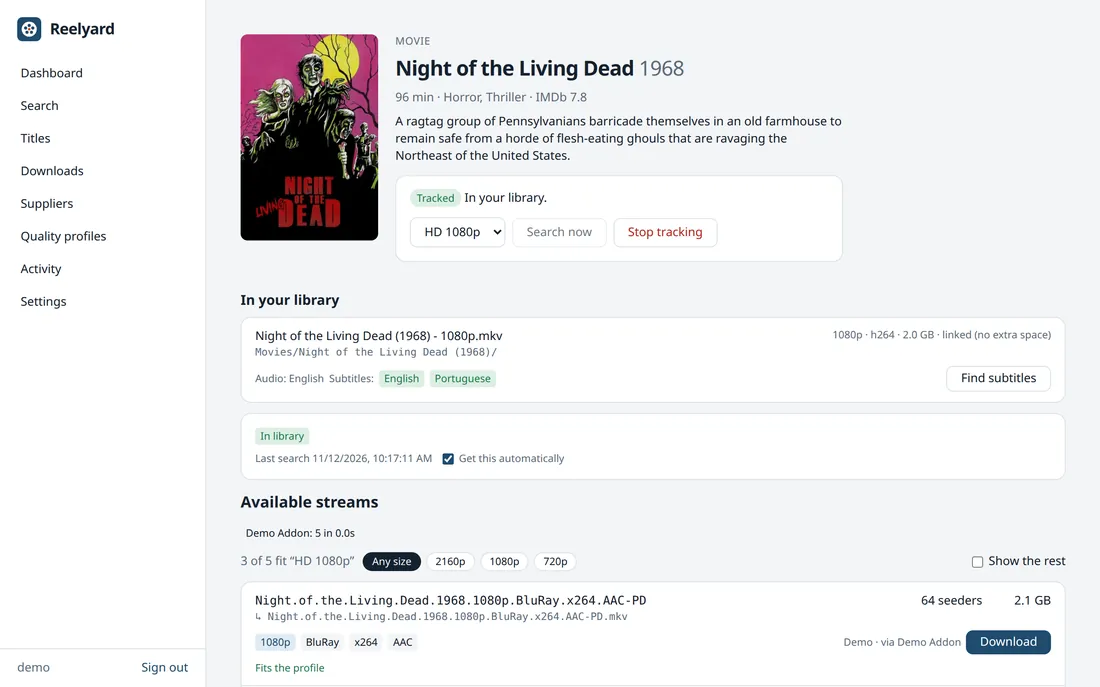
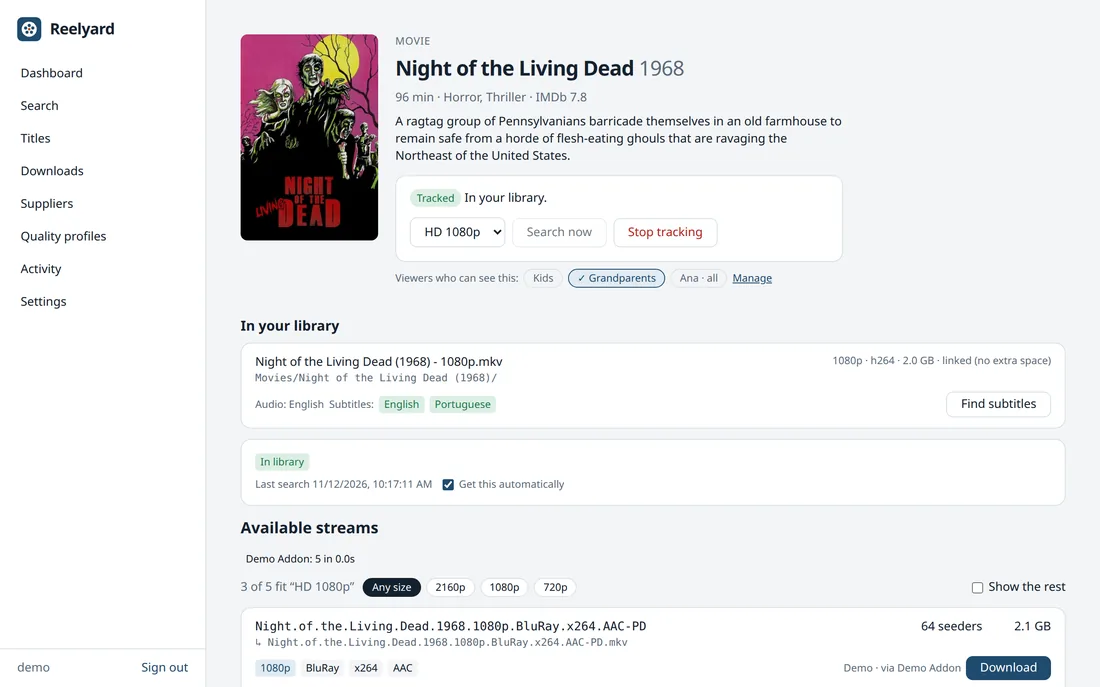
deploy: 12b49de88c41b47a59d72a4769d6e8bd746215b5

diff --git a/docs.html b/docs.html
@@ -247,8 +247,15 @@ docker compose up -d</code></pre>
 
     <!-- ============================================================ -->
     <h2 id="tracking">Tracking &amp; quality profiles</h2>
-    <p>Open a movie or series and press <strong>Track</strong>. Reelyard then looks for it by itself (every minute for new work, backing off from 15 minutes to a day when nothing fits), picks the best release for the title's <strong>quality profile</strong>, downloads it, and imports it. Series follow new episodes as they air; choose <em>all episodes</em>, <em>only new ones</em>, or <em>none</em>.</p>
-    <figure class="frame"><a href="img/series-main-light-1600.webp" class="shot-link"><img class="shot shot-light" src="img/series-main-light-800.webp" srcset="img/series-main-light-800.webp 800w, img/series-main-light-1600.webp 1600w" sizes="(max-width: 880px) calc(100vw - 34px), 760px" width="800" height="615" alt="A tracked series with each episode's state" loading="lazy" decoding="async"><img class="shot shot-dark" src="img/series-main-dark-800.webp" srcset="img/series-main-dark-800.webp 800w, img/series-main-dark-1600.webp 1600w" sizes="(max-width: 880px) calc(100vw - 34px), 760px" width="800" height="615" alt="A tracked series with each episode's state" loading="lazy" decoding="async"></a><figcaption>A tracked series: three episodes in the library, the rest on their way.</figcaption></figure>
+    <p>Open a movie or series and press <strong>Track</strong>. Reelyard then looks for it by itself (every minute for new work, backing off from 15 minutes to a day when nothing fits), picks the best release for the title's <strong>quality profile</strong>, downloads it, and imports it. Series follow new episodes as they air.</p>
+    <h3 id="episodes">Choosing seasons and episodes</h3>
+    <p>For a series, the Track panel asks what to get:</p>
+    <ul>
+      <li><strong>All episodes</strong>, <strong>only new ones</strong>, or <strong>None, I'll pick episodes</strong>;</li>
+      <li>which seasons, as chips (regular seasons on and specials off at first). You can change them after tracking too.</li>
+    </ul>
+    <p>In the episode list, tick <strong>get</strong> on any episode not in your library yet, or use <strong>Get whole season</strong> and <strong>Skip season</strong>. Saving a new mode or season choice applies it again to every episode; changing only the profile keeps your picks. Unticking an episode that's already downloading doesn't stop that download, only new searches.</p>
+    <figure class="frame"><a href="img/series-main-light-1600.webp" class="shot-link"><img class="shot shot-light" src="img/series-main-light-800.webp" srcset="img/series-main-light-800.webp 800w, img/series-main-light-1600.webp 1600w" sizes="(max-width: 880px) calc(100vw - 34px), 760px" width="800" height="615" alt="A tracked series with each episode's state" loading="lazy" decoding="async"><img class="shot shot-dark" src="img/series-main-dark-800.webp" srcset="img/series-main-dark-800.webp 800w, img/series-main-dark-1600.webp 1600w" sizes="(max-width: 880px) calc(100vw - 34px), 760px" width="800" height="615" alt="A tracked series with each episode's state" loading="lazy" decoding="async"></a><figcaption>A tracked series: three episodes in the library, the rest ticked to get and on their way. Under the Track panel, the viewers who can see it.</figcaption></figure>
     <h3 id="profiles">Quality profiles</h3>
     <p>A profile sets:</p>
     <ul>
@@ -265,12 +272,16 @@ docker compose up -d</code></pre>
 
     <!-- ============================================================ -->
     <h2 id="downloads">Downloads</h2>
-    <figure class="frame"><a href="img/downloads-main-light-1600.webp" class="shot-link"><img class="shot shot-light" src="img/downloads-main-light-800.webp" srcset="img/downloads-main-light-800.webp 800w, img/downloads-main-light-1600.webp 1600w" sizes="(max-width: 880px) calc(100vw - 34px), 760px" width="800" height="615" alt="The Downloads page with live progress" loading="lazy" decoding="async"><img class="shot shot-dark" src="img/downloads-main-dark-800.webp" srcset="img/downloads-main-dark-800.webp 800w, img/downloads-main-dark-1600.webp 1600w" sizes="(max-width: 880px) calc(100vw - 34px), 760px" width="800" height="615" alt="The Downloads page with live progress" loading="lazy" decoding="async"></a><figcaption>Downloads in progress, queued and sharing.</figcaption></figure>
+    <figure class="frame"><a href="img/downloads-main-light-1600.webp" class="shot-link"><img class="shot shot-light" src="img/downloads-main-light-800.webp" srcset="img/downloads-main-light-800.webp 800w, img/downloads-main-light-1600.webp 1600w" sizes="(max-width: 880px) calc(100vw - 34px), 760px" width="800" height="615" alt="The Downloads page with tabs and live progress" loading="lazy" decoding="async"><img class="shot shot-dark" src="img/downloads-main-dark-800.webp" srcset="img/downloads-main-dark-800.webp 800w, img/downloads-main-dark-1600.webp 1600w" sizes="(max-width: 880px) calc(100vw - 34px), 760px" width="800" height="615" alt="The Downloads page with tabs and live progress" loading="lazy" decoding="async"></a><figcaption>The Downloads page: what's running now, with the queue, paused, seeding and finished downloads in their own tabs.</figcaption></figure>
+    <p>The page has tabs: <strong>Downloading</strong>, <strong>Queue</strong>, <strong>Paused</strong> (paused and failed), <strong>Seeding</strong> and <strong>Finished</strong>.</p>
+    <h3 id="queue">Queue</h3>
+    <p>When all download slots are busy, the rest wait in the queue. Those with the most seeders start first, then those whose count isn't known yet, then those with none; among equals, the oldest first. The Queue tab lists them in that order with their seeder count. Counts come from the release when it's picked, and Reelyard asks your suppliers again for queued downloads that don't have one.</p>
+    <p>While others are waiting, a download that has had no peers and no data for 10 minutes is paused (shown as a grey "no peers" note) to free its slot. For a tracked title, that release is blocked and Reelyard looks for another. Downloads you pause yourself are left alone.</p>
     <h3 id="sharing">Sharing</h3>
     <p>Finished downloads keep sharing until the title's profile ratio or time limit (for downloads you started by hand: <strong>Settings → Downloads</strong>), whichever comes first. Then sharing stops, and if the file is in your library its download copy is deleted. The library file stays: it's a hardlink or a copy.</p>
     <h3 id="stalls">Stalls and disk space</h3>
     <ul>
-      <li>Downloads that make no progress for 30 minutes (adjustable) fail; tracked titles then try another release.</li>
+      <li>Downloads that make no progress for 30 minutes (adjustable) fail; tracked titles then try another release. When others are waiting in the queue, a download with no peers is paused after 10 minutes instead (see <a href="#queue">Queue</a>).</li>
       <li>Downloads that wouldn't fit on disk, keeping 2 GB free (adjustable), are refused.</li>
       <li>Speed limits and how many downloads run at once are set in <strong>Settings → Downloads</strong>.</li>
     </ul>
@@ -287,16 +298,27 @@ TV/Breaking Bad (2008)/Season 01/Breaking Bad (2008) - S01E02 - Cat's in the Bag
 
     <!-- ============================================================ -->
     <h2 id="dlna">Watching on a TV (DLNA)</h2>
-    <p>Reelyard has its own DLNA server, on by default. TVs, game consoles and players like VLC on your network list it as <strong>Reelyard</strong> (rename it in <strong>Settings → DLNA server</strong>) and play straight from the library, with seeking.</p>
+    <p>Reelyard has its own DLNA server, on by default. TVs, game consoles and players like VLC on your network list it as <strong>Reelyard</strong> (rename it in <strong>Settings → TVs (DLNA)</strong>) and play straight from the library, with seeking.</p>
     <ul>
       <li>Subtitles saved next to a video are offered with it, in your subtitle-language order (Samsung TVs get them too).</li>
       <li>Thumbnails need <code>ffmpeg</code>; durations need <code>ffprobe</code>.</li>
       <li>Turn on converted versions in the DLNA settings for TVs that can't play a file (needs <code>ffmpeg</code>).</li>
       <li>Where you stopped and what you've watched are shared with TVs that support it.</li>
     </ul>
+    <h3 id="dlna-name">One name per server</h3>
+    <p>TVs tell DLNA servers apart by a device ID made from the server's name, so two Reelyards on the same network both called "Reelyard" get mixed up: the TV acts as if the server keeps restarting. Give each its own name (for example "Reelyard NAS" and "Reelyard PC"). Reelyard looks for a twin when it starts and every 10 minutes, and warns in <strong>Settings → TVs (DLNA)</strong> when it finds one.</p>
+    <h3 id="viewers">Viewers: a server per family member</h3>
+    <p>TVs don't sign in, so each person who watches gets their own server in the TV's sources: <strong>Settings → Viewers → Add viewer</strong> creates, say, "Reelyard · Kids" next to the main "Reelyard". On a viewer's server:</p>
+    <ul>
+      <li>watched marks and resume points are theirs, and a <strong>Continue watching</strong> folder at the top lists what they're halfway through (the main server has one for your account too);</li>
+      <li><strong>Only titles I choose</strong> limits it to the films and series you pick; other titles don't appear and their files can't be opened from that server;</li>
+      <li><strong>Show on these TVs</strong> shows it only on the TVs you tick (the main server has the same option). TVs are listed once they've opened any Reelyard server and are told apart by address, so give each a fixed IP in your router.</li>
+    </ul>
+    <p>You can also choose from a title's own page: under the Track panel, <strong>Viewers who can see this</strong> has a chip per viewer. Click a limited viewer to give or take away that title (for a series, all its episodes, including future ones). Viewers who see the whole library show as "Name · all".</p>
+    <p>Each viewer's server uses the next port after the main one (8201, 8202, …); allow those in your firewall too. Anyone using a TV that shows a server can open it: hide the main server from a child's TV, and don't rely on this to keep a determined person out.</p>
     <h3 id="dlna-network">Network</h3>
     <ul>
-      <li>It uses TCP port <strong>8200</strong> and SSDP (UDP 1900, multicast); allow both in your firewall.</li>
+      <li>It uses TCP port <strong>8200</strong> (and 8201, 8202, … for <a href="#viewers">viewers</a>) and SSDP (UDP 1900, multicast); allow both in your firewall.</li>
       <li>Only devices on private networks (192.168.x, 10.x, 172.16–31.x, link-local) can connect.</li>
       <li>It isn't announced on your VPN interface or, unless you choose them, on Docker/VM bridges.</li>
       <li>In Docker, use host networking; multicast doesn't cross Docker's bridge network.</li>
@@ -305,7 +327,7 @@ TV/Breaking Bad (2008)/Season 01/Breaking Bad (2008) - S01E02 - Cat's in the Bag
     <!-- ============================================================ -->
     <h2 id="media-servers">Jellyfin, Emby and Plex</h2>
     <p>Point your media server's Movies and Shows libraries at <code>library/Movies</code> and <code>library/TV</code>.</p>
-    <p>In <strong>Settings → Jellyfin, Emby and Plex</strong>, add the server's address and an API key (Jellyfin, Emby) or <code>X-Plex-Token</code> (Plex); <strong>Test connection</strong> checks both. Reelyard then asks it to rescan about 30 seconds after new files arrive (several imports close together share one rescan). Keys are stored in Reelyard's database and never sent back to the browser.</p>
+    <p>In <strong>Settings → Library → Jellyfin, Emby and Plex</strong>, add the server's address and an API key (Jellyfin, Emby) or <code>X-Plex-Token</code> (Plex); <strong>Test connection</strong> checks both. Reelyard then asks it to rescan about 30 seconds after new files arrive (several imports close together share one rescan). Keys are stored in Reelyard's database and never sent back to the browser.</p>
 
     <!-- ============================================================ -->
     <h2 id="vpn">Using a VPN</h2>
@@ -408,7 +430,7 @@ echo 'new password' | reelyard reset-password --password-stdin</code></pre>
 
     <!-- ============================================================ -->
     <h2 id="api">API</h2>
-    <p>Everything the UI does goes through <code>/api/v1</code>. Scripts can use an API key from <strong>Settings → API keys</strong>, sent as the <code>X-Api-Key</code> header (<code>Authorization: Bearer hbr_...</code> works too):</p>
+    <p>Everything the UI does goes through <code>/api/v1</code>. Scripts can use an API key from <strong>Settings → Apps and API</strong>, sent as the <code>X-Api-Key</code> header (<code>Authorization: Bearer hbr_...</code> works too):</p>
 <pre><code>curl -H "X-Api-Key: hbr_..." http://localhost:8787/api/v1/system</code></pre>
     <p>The app API is described in OpenAPI at <code>/api/v1/openapi.yaml</code> on your own server. <code>/api/v1/health</code> reports the running version.</p>
 
@@ -417,10 +439,10 @@ echo 'new password' | reelyard reset-password --password-stdin</code></pre>
     <p>Reelyard's apps for TVs, phones and computers (<a href="https://github.com/Reelyard/clients">Reelyard/clients</a>) sign in with a pairing code instead of a password:</p>
     <ol>
       <li>The app calls <code>POST /api/v1/devices/pair</code> with <code>{"name": "Living room TV", "platform": "tizen"}</code> and shows the <code>code</code> it gets back (for example <code>K7Q-4MD</code>).</li>
-      <li>You enter that code under <strong>Settings → Devices</strong>.</li>
+      <li>You enter that code under <strong>Settings → Apps and API</strong>.</li>
       <li>The app, polling <code>POST /api/v1/devices/pair/token</code> with its <code>pollSecret</code>, gets its own token (<code>hbd_...</code>) and sends it as <code>Authorization: Bearer hbd_...</code>.</li>
     </ol>
-    <p>Codes work for 10 minutes. <strong>Settings → Devices</strong> lists every device and signs any of them out.</p>
+    <p>Codes work for 10 minutes. <strong>Settings → Apps and API</strong> lists every device and signs any of them out.</p>
     <h3 id="playback-api">Playback endpoints</h3>
     <div class="table-scroll">
     <table>

diff --git a/index.html b/index.html
@@ -72,9 +72,9 @@
       <p>The web UI runs on your own machine, at port 8787, and you open it in any browser.</p>
     </div>
     <div class="gallery">
-      <figure class="frame"><a href="img/downloads-light-2200.webp" class="shot-link"><img class="shot shot-light" src="img/downloads-light-1100.webp" srcset="img/downloads-light-1100.webp 1100w, img/downloads-light-2200.webp 2200w" sizes="(max-width: 1120px) calc(100vw - 34px), 1088px" width="1100" height="688" alt="Downloads page with live speeds, peers and progress for each torrent" loading="lazy" decoding="async"><img class="shot shot-dark" src="img/downloads-dark-1100.webp" srcset="img/downloads-dark-1100.webp 1100w, img/downloads-dark-2200.webp 2200w" sizes="(max-width: 1120px) calc(100vw - 34px), 1088px" width="1100" height="688" alt="Downloads page with live speeds, peers and progress for each torrent" loading="lazy" decoding="async"></a><figcaption><strong>Downloads.</strong> Live speed, peers and time left, plus what's still being shared after it finishes.</figcaption></figure>
-      <figure class="frame"><a href="img/series-light-2200.webp" class="shot-link"><img class="shot shot-light" src="img/series-light-1100.webp" srcset="img/series-light-1100.webp 1100w, img/series-light-2200.webp 2200w" sizes="(max-width: 1120px) calc(100vw - 34px), 1088px" width="1100" height="688" alt="A tracked series showing which episodes are in the library and which are downloading" loading="lazy" decoding="async"><img class="shot shot-dark" src="img/series-dark-1100.webp" srcset="img/series-dark-1100.webp 1100w, img/series-dark-2200.webp 2200w" sizes="(max-width: 1120px) calc(100vw - 34px), 1088px" width="1100" height="688" alt="A tracked series showing which episodes are in the library and which are downloading" loading="lazy" decoding="async"></a><figcaption><strong>Series follow themselves.</strong> Each episode shows whether it's in your library, downloading, or not out yet.</figcaption></figure>
-      <figure class="frame"><a href="img/movie-light-2200.webp" class="shot-link"><img class="shot shot-light" src="img/movie-light-1100.webp" srcset="img/movie-light-1100.webp 1100w, img/movie-light-2200.webp 2200w" sizes="(max-width: 1120px) calc(100vw - 34px), 1088px" width="1100" height="688" alt="A movie's page: the library file with its subtitles, and the available releases checked against the quality profile" loading="lazy" decoding="async"><img class="shot shot-dark" src="img/movie-dark-1100.webp" srcset="img/movie-dark-1100.webp 1100w, img/movie-dark-2200.webp 2200w" sizes="(max-width: 1120px) calc(100vw - 34px), 1088px" width="1100" height="688" alt="A movie's page: the library file with its subtitles, and the available releases checked against the quality profile" loading="lazy" decoding="async"></a><figcaption><strong>Every release, explained.</strong> See which releases fit the profile and why, and the subtitles saved next to your file.</figcaption></figure>
+      <figure class="frame"><a href="img/downloads-light-2200.webp" class="shot-link"><img class="shot shot-light" src="img/downloads-light-1100.webp" srcset="img/downloads-light-1100.webp 1100w, img/downloads-light-2200.webp 2200w" sizes="(max-width: 1120px) calc(100vw - 34px), 1088px" width="1100" height="688" alt="Downloads page with tabs for downloading, queue, paused, seeding and finished, and live speeds, peers and progress" loading="lazy" decoding="async"><img class="shot shot-dark" src="img/downloads-dark-1100.webp" srcset="img/downloads-dark-1100.webp 1100w, img/downloads-dark-2200.webp 2200w" sizes="(max-width: 1120px) calc(100vw - 34px), 1088px" width="1100" height="688" alt="Downloads page with tabs for downloading, queue, paused, seeding and finished, and live speeds, peers and progress" loading="lazy" decoding="async"></a><figcaption><strong>Downloads.</strong> Live speed, peers and time left. Tabs split what's running, the queue (best-seeded first), paused, sharing and finished.</figcaption></figure>
+      <figure class="frame"><a href="img/series-light-2200.webp" class="shot-link"><img class="shot shot-light" src="img/series-light-1100.webp" srcset="img/series-light-1100.webp 1100w, img/series-light-2200.webp 2200w" sizes="(max-width: 1120px) calc(100vw - 34px), 1088px" width="1100" height="688" alt="A tracked series showing which episodes are in the library and which are downloading" loading="lazy" decoding="async"><img class="shot shot-dark" src="img/series-dark-1100.webp" srcset="img/series-dark-1100.webp 1100w, img/series-dark-2200.webp 2200w" sizes="(max-width: 1120px) calc(100vw - 34px), 1088px" width="1100" height="688" alt="A tracked series showing which episodes are in the library and which are downloading" loading="lazy" decoding="async"></a><figcaption><strong>Series follow themselves.</strong> Get every episode, only new ones, or just the seasons and episodes you tick. Each shows whether it's in your library, downloading, or not out yet.</figcaption></figure>
+      <figure class="frame"><a href="img/movie-light-2200.webp" class="shot-link"><img class="shot shot-light" src="img/movie-light-1100.webp" srcset="img/movie-light-1100.webp 1100w, img/movie-light-2200.webp 2200w" sizes="(max-width: 1120px) calc(100vw - 34px), 1088px" width="1100" height="688" alt="A movie's page: the library file with its subtitles, and the available releases checked against the quality profile" loading="lazy" decoding="async"><img class="shot shot-dark" src="img/movie-dark-1100.webp" srcset="img/movie-dark-1100.webp 1100w, img/movie-dark-2200.webp 2200w" sizes="(max-width: 1120px) calc(100vw - 34px), 1088px" width="1100" height="688" alt="A movie's page: the library file with its subtitles, and the available releases checked against the quality profile" loading="lazy" decoding="async"></a><figcaption><strong>Every release, explained.</strong> See which releases fit the profile and why, the subtitles saved next to your file, and which family members can see it on their TV.</figcaption></figure>
       <figure class="frame"><a href="img/profiles-light-2200.webp" class="shot-link"><img class="shot shot-light" src="img/profiles-light-1100.webp" srcset="img/profiles-light-1100.webp 1100w, img/profiles-light-2200.webp 2200w" sizes="(max-width: 1120px) calc(100vw - 34px), 1088px" width="1100" height="688" alt="Quality profiles: HD 1080p, 4K and Small, with sizes, languages and seeders" loading="lazy" decoding="async"><img class="shot shot-dark" src="img/profiles-dark-1100.webp" srcset="img/profiles-dark-1100.webp 1100w, img/profiles-dark-2200.webp 2200w" sizes="(max-width: 1120px) calc(100vw - 34px), 1088px" width="1100" height="688" alt="Quality profiles: HD 1080p, 4K and Small, with sizes, languages and seeders" loading="lazy" decoding="async"></a><figcaption><strong>Quality profiles.</strong> Screen sizes, file sizes, audio and subtitle languages, and the minimum number of seeders.</figcaption></figure>
     </div>
     <p class="shots-note">Shown with public-domain and Creative Commons titles.</p>
@@ -101,12 +101,12 @@
       <div class="card">
         <div class="ic"><svg viewBox="0 0 24 24" fill="none" stroke="currentColor" stroke-width="2" stroke-linecap="round" stroke-linejoin="round"><path d="M12 3v12m0 0-4-4m4 4 4-4"/><path d="M4 17v2a2 2 0 0 0 2 2h12a2 2 0 0 0 2-2v-2"/></svg></div>
         <h3>Built-in torrent engine</h3>
-        <p>Speed limits, sharing until a ratio or time limit, stall detection with automatic retries, and disk-space checks before anything starts.</p>
+        <p>Best-seeded downloads go first, dead ones are swapped for another release, sharing stops at a ratio or time limit, and disk space is checked before anything starts.</p>
       </div>
       <div class="card">
         <div class="ic"><svg viewBox="0 0 24 24" fill="none" stroke="currentColor" stroke-width="2" stroke-linecap="round" stroke-linejoin="round"><rect x="3" y="4" width="18" height="14" rx="2"/><path d="M8 21h8"/></svg></div>
         <h3>DLNA server for your TV</h3>
-        <p>TVs, consoles and VLC find <em>Reelyard</em> on your network and play with seeking, subtitles, thumbnails, resume points and watched marks.</p>
+        <p>TVs, consoles and VLC find <em>Reelyard</em> on your network and play with seeking, subtitles and resume points. Each family member can get their own server, limited to the titles you choose.</p>
       </div>
       <div class="card">
         <div class="ic"><svg viewBox="0 0 24 24" fill="none" stroke="currentColor" stroke-width="2" stroke-linecap="round" stroke-linejoin="round"><path d="M4 4h6v6H4zM14 4h6v6h-6zM4 14h6v6H4zM14 14h6v6h-6z"/></svg></div>
